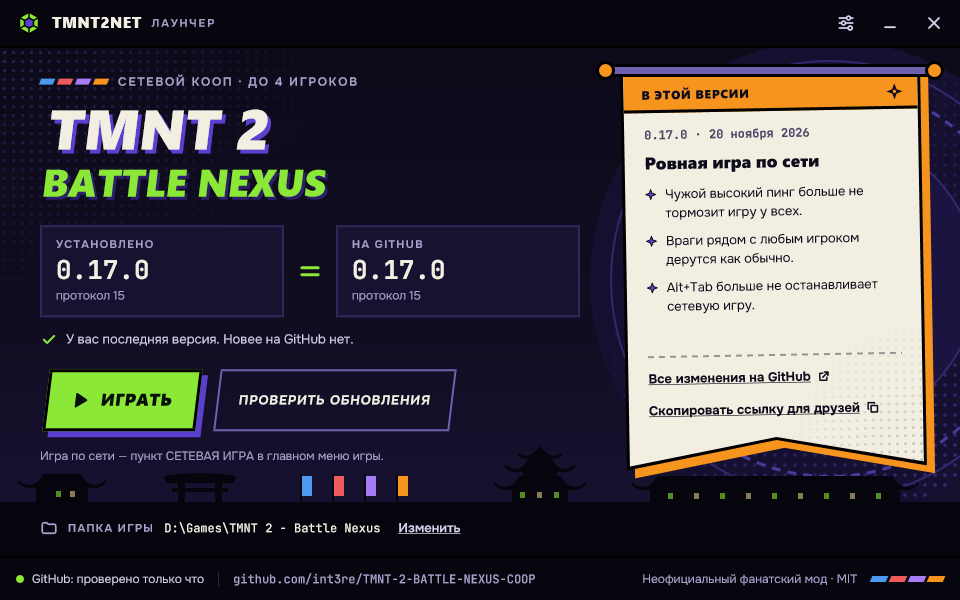
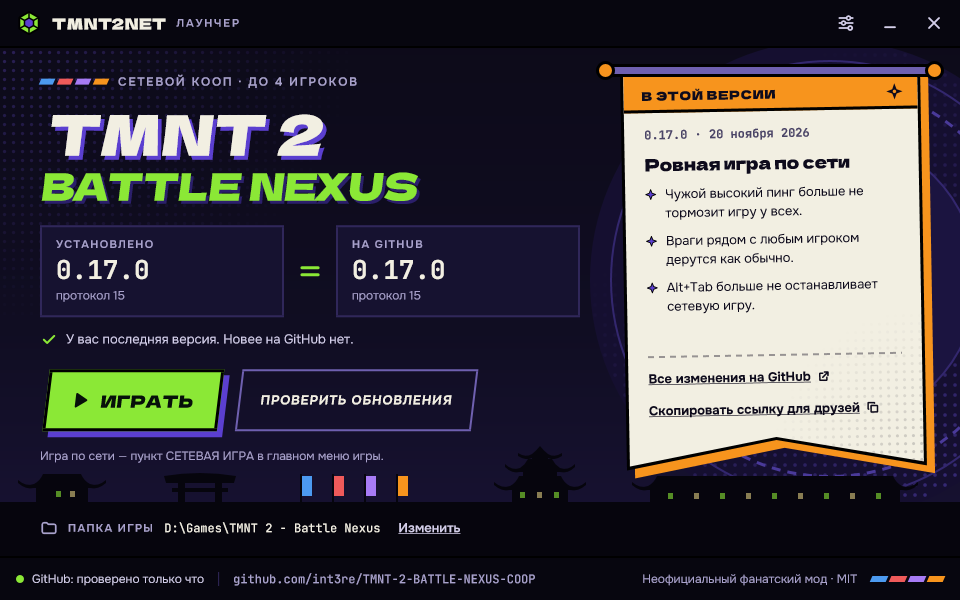
Launcher: the headings' font of the design, Dela Gothic One, is in the exe
DelaGothicOne-Regular.ttf from github.com/google/fonts (ofl/delagothicone, SIL Open Font License),
cut down to its Latin and Cyrillic part by tools/launcher_fonts.py --display: 30 KB instead of 2.5 MB
(most of the original is Japanese the launcher never writes). Names, metrics and kerning are the
original's; the licence is beside it. The pictures of the launcher in the docs are redrawn with it.

diff --git a/tools/launcher_fonts.py b/tools/launcher_fonts.py
@@ -1,12 +1,16 @@
-"""The launcher's fonts: static TTF files made from the Google Fonts pieces (variable, one file per range of
-characters) that an exported design page carries.
+"""The launcher's fonts (src/launcher/assets/fonts), all under the SIL Open Font License (OFL-*.txt beside
+them; none declares a reserved font name). Needs fontTools and brotli.
 
     python tools/launcher_fonts.py <folder with the .woff2 pieces> src/launcher/assets/fonts
+        Onest and JetBrains Mono: static TTF files made from the Google Fonts pieces (variable, one file per
+        range of characters) that an exported design page carries. For each family and weight the Latin and
+        the Cyrillic piece are pinned at that weight and merged into one file.
 
-For each family and weight the Latin and the Cyrillic piece are pinned at that weight and merged into one
-file. The fonts are under the SIL Open Font License (OFL-*.txt beside them); no reserved font names.
-Needs fontTools and brotli."""
+    python tools/launcher_fonts.py --display <DelaGothicOne-Regular.ttf> src/launcher/assets/fonts
+        The headings' font, Dela Gothic One (github.com/google/fonts, ofl/delagothicone): the Latin and the
+        Cyrillic part of it. The whole file is 2.5 MB, most of it Japanese the launcher never writes."""
 import glob, os, sys
+from fontTools import subset
 from fontTools.merge import Merger
 from fontTools.ttLib import TTFont
 from fontTools.varLib.instancer import instantiateVariableFont
@@ -71,5 +75,32 @@ def main(src, dst):
                 os.path.basename(out), os.path.getsize(out), len(cmap), 0x416 in cmap, ord("g") in cmap))
 
 
+def display(src, dst):
+    """Latin, Cyrillic, digits and punctuation of the headings' font; its names and metrics stay."""
+    os.makedirs(dst, exist_ok=True)
+    opt = subset.Options()
+    opt.layout_features = ["kern", "liga", "ccmp", "locl", "case", "mark", "mkmk"]
+    opt.name_IDs = ["*"]
+    opt.name_languages = ["*"]
+    opt.notdef_outline = True
+    opt.hinting = False
+    opt.drop_tables += ["DSIG", "vhea", "vmtx"]
+    font = TTFont(src)
+    ranges = [(0x20, 0x7E), (0xA0, 0xFF), (0x400, 0x45F), (0x490, 0x491), (0x2010, 0x2027), (0x2030, 0x203A), (0x20AC, 0x20AC),
+              (0x2116, 0x2116), (0x2122, 0x2122), (0x2190, 0x2193), (0x2212, 0x2212)]
+    sub = subset.Subsetter(opt)
+    sub.populate(unicodes=[c for a, b in ranges for c in range(a, b + 1)])
+    sub.subset(font)
+    out = os.path.join(dst, "DelaGothicOne-Regular.ttf")
+    font.save(out)
+    made = TTFont(out)
+    cmap = made.getBestCmap()
+    print("%-28s %6d bytes, %d characters, Cyrillic %s, Latin %s, family %r" % (
+        os.path.basename(out), os.path.getsize(out), len(cmap), 0x416 in cmap, ord("g") in cmap, made["name"].getDebugName(1)))
+
+
 if __name__ == "__main__":
-    main(sys.argv[1], sys.argv[2])
+    if sys.argv[1] == "--display":
+        display(sys.argv[2], sys.argv[3])
+    else:
+        main(sys.argv[1], sys.argv[2])

diff --git a/src/launcher/assets/fonts/README.md b/src/launcher/assets/fonts/README.md
@@ -4,12 +4,17 @@
 |---|---|---|
 | `Onest-Regular.ttf`, `-Medium`, `-SemiBold`, `-Bold` | Onest, (c) 2021 The Onest Project Authors | SIL Open Font License 1.1, `OFL-Onest.txt` |
 | `JetBrainsMono-Medium.ttf`, `-Bold` | JetBrains Mono, (c) 2020 The JetBrains Mono Project Authors | SIL Open Font License 1.1, `OFL-JetBrainsMono.txt` |
+| `DelaGothicOne-Regular.ttf` | Dela Gothic One, (c) 2020 The Dela Gothic Project Authors | SIL Open Font License 1.1, `OFL-DelaGothicOne.txt` |
 
-These are **modified versions**: made by `tools/launcher_fonts.py` from the files Google Fonts serves (variable
-fonts, one file per range of characters). For each weight the Latin and the Cyrillic file were pinned at that
-weight and merged into one static file; the layout tables (kerning, alternates) were left out. Neither family
-declares a Reserved Font Name. The fonts are compiled into `tmnt2net-launcher.exe` as resources.
+These are **modified versions**, made by `tools/launcher_fonts.py`; none of the families declares a Reserved
+Font Name. The fonts are compiled into `tmnt2net-launcher.exe` as resources.
 
-The headings' font of the design is Dela Gothic One (OFL). When `DelaGothicOne-Regular.ttf` (with its
-`OFL-DelaGothicOne.txt`) is in this folder, the build puts it into the exe; without it the launcher draws the
+- Onest and JetBrains Mono: from the files Google Fonts serves (variable fonts, one file per range of
+  characters). For each weight the Latin and the Cyrillic file were pinned at that weight and merged into one
+  static file; the layout tables (kerning, alternates) were left out.
+- Dela Gothic One, the headings' font: the Latin and the Cyrillic part (317 characters, 30 KB) of
+  `DelaGothicOne-Regular.ttf` from github.com/google/fonts, `ofl/delagothicone` (9030 characters, 2.5 MB,
+  most of them Japanese). Names, metrics and kerning are the original's.
+
+Without `DelaGothicOne-Regular.ttf` in this folder the build still works: the launcher then draws the
 headings with Arial Black of Windows.

diff --git a/docs/BUILDING.md b/docs/BUILDING.md
@@ -146,8 +146,8 @@ python tools/gen_postfx.py
 
 - Шрифты лежат в `src/launcher/assets/fonts` и встраиваются в exe. Их делает `tools/launcher_fonts.py`
   (нужны `fontTools` и `brotli`) из файлов Google Fonts; лицензии — рядом. Шрифт заголовков, Dela Gothic
-  One, встраивается, только если в этой папке есть `DelaGothicOne-Regular.ttf`; без него заголовки рисует
-  Arial Black из Windows.
+  One, лежит там же урезанным до латиницы и кириллицы; без его файла сборка тоже проходит, и заголовки
+  рисует Arial Black из Windows.
 - Значок делает `tools/launcher_icon.py` (нужен `Pillow`).
 - Любой экран можно нарисовать в файл, не показывая окна: `tmnt2net-launcher.exe --shot update out.png`.
   Остальные ключи проверки — на [странице лаунчера](LAUNCHER.md#разработчикам).
